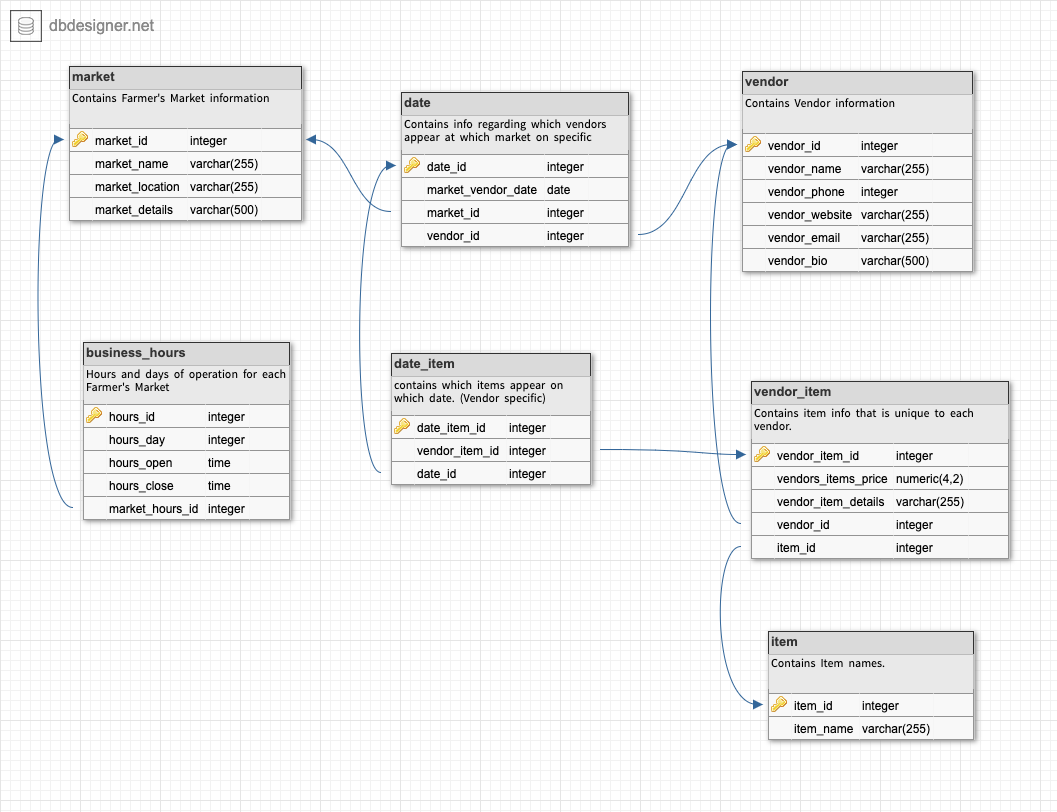
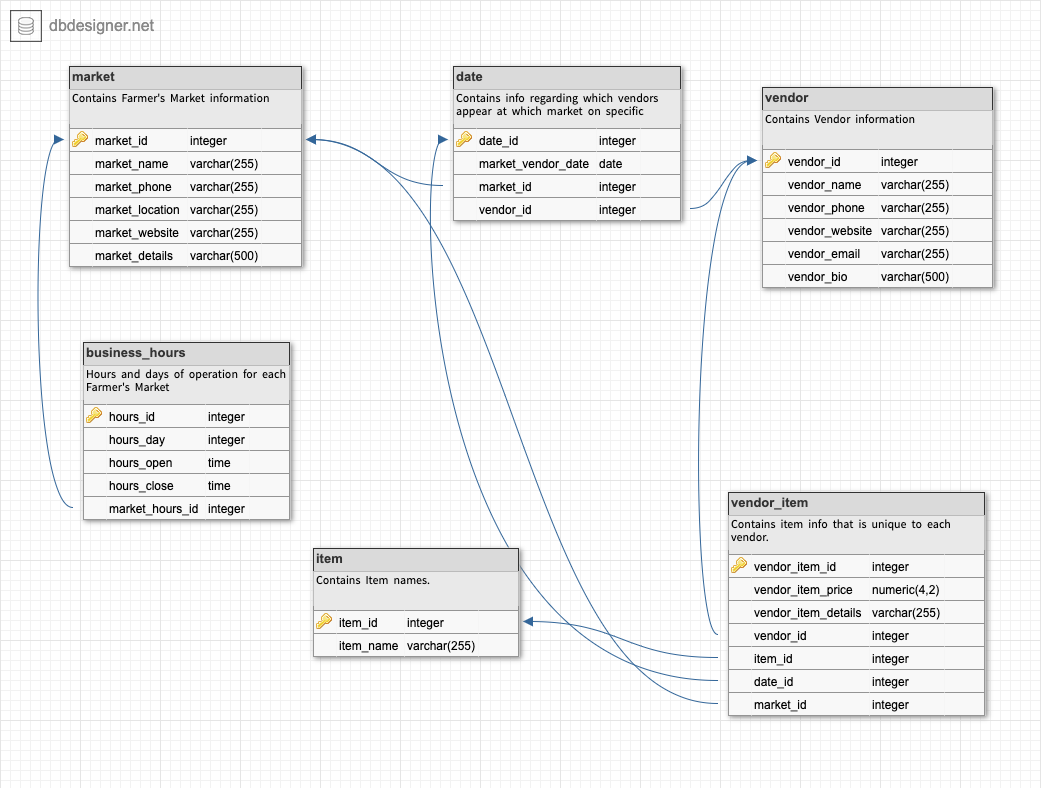
Updated sql script to have better join table flexibility. Added controllers to post vendor details, get vendor info, search for vendors/markets by date, search by item name.

diff --git a/server/controllers/aController.js b/server/controllers/aController.js
@@ -1,11 +1,176 @@
-const models = require('../models/aModel.js');
+const db = require('../models/aModel.js');
 const fs = require('fs');
 const path = require('path');
 const aController = {};
 
+/*
+  helpful query examples
 
-aController.findSomething = (req, res, next) => {
+  add column to table:
+  alter table vendor_item
+  add column "market_id" integer NOT NULL;
 
+  insert data into multiple columns at once
+  INSERT INTO business_hours (hours_day, hours_open, hours_close, market_hours_id)
+  VALUES (0, '09:00', '14:00', 7);
+
+  alter table vendor
+  alter column "vendor_phone" set data type varchar(255);
+
+  INSERT INTO vendor_item (vendor_item_price, vendor_item_details, vendor_id, item_id, date_id, market_id )
+ VALUES ('1.25', 'The dilliest dalliest pickles you ever did eat.', '1', '1', '1', '1');
+ 
+  INSERT INTO vendor (vendor_name, vendor_phone, vendor_website, vendor_email, vendor_bio)
+ VALUES ('Boris Farms', '(555) 555-5555', 'http://www.borisfarmfun.com', 'boris@borisfarmfun.com', 'Boris loves to farm!');
+
+ */
+ aController.createVendorDetails = (req, res, next) => {
+    // post vendor details
+
+     // for this to work the application will have to send these in the body of
+     //  the request as json object containing these keys.
+     const { vendor_name,
+     vendor_phone,
+     vendor_website,
+     vendor_email,
+     vendor_bio } = req.body; // or req.params depending how we build it
+
+     const values = [vendor_name,
+     vendor_phone,
+     vendor_website,
+     vendor_email,
+     vendor_bio];
+
+     const sqlQueryStr = `insert into vendor
+                           (vendor_name,
+                           vendor_phone,
+                           vendor_website,
+                           vendor_email,
+                           vendor_bio)
+                           values
+                           ($1, $2, $3, $4, $5)
+                           ;`
+                           ;
+
+     db.query(sqlQueryStr, values).then((data) => {
+       res.locals = data;
+       // console.log('data: ', res.locals.rows);
+       return next();
+     })
+       .catch((err) => next(err));
+ };
+
+aController.findVendorDetails = (req, res, next) => {
+    // get vendor info
+
+    // write code here
+    // console.log('req: ', req);
+    // console.log('req.query.id: ', req.query.id);
+    // const values = [req.query.id];
+
+    const { vendor_name } = req.body; // or req.params depending how we build it
+
+    const values = [vendor_name];
+    const sqlQueryStr = `select
+                          vendor_name,
+                          vendor_phone,
+                          vendor_website,
+                          vendor_email,
+                          vendor_bio,
+                          market_name
+
+                          from date d
+                          inner join market m
+                          on m.market_id = d.market_id
+                          inner join vendor v
+                          on v.vendor_id = d.vendor_id
+                          where vendor_name like $1
+                          order by
+                          market_name DESC
+                          ;`
+                          ;
+
+    db.query(sqlQueryStr, values).then((data) => {
+      res.locals = data;
+      // console.log('data: ', res.locals.rows);
+      return next();
+    })
+      .catch((err) => next(err));
+};
+
+aController.findVendorMarketDate = (req, res, next) => {
+    // search for vendors/markets by date
+
+    // write code here
+    // console.log('req: ', req);
+    // console.log('req.query.id: ', req.query.id);
+    // const values = [req.query.id];
+
+    const { market_vendor_date } = req.body; // or req.params depending how we build it
+
+    const values = [market_vendor_date];
+
+    const sqlQueryStr = `select
+                          vendor_name,
+                          market_vendor_date,
+                          market_name
+
+                          from date d
+                          inner join market m
+                          on m.market_id = d.market_id
+                          inner join vendor v
+                          on v.vendor_id = d.vendor_id
+                          where market_vendor_date like $1
+                          order by
+                          market_vendor_date ASC;`;
+
+    db.query(sqlQueryStr, values).then((data) => {
+      res.locals = data;
+      // console.log('data: ', res.locals.rows);
+      return next();
+    })
+      .catch((err) => next(err));
+};
+
+aController.findVendorItemDate = (req, res, next) => {
+    // search by item name
+
+    // write code here
+    // console.log('req: ', req);
+    // console.log('req.query.id: ', req.query.id);
+    // const values = [req.query.id];
+
+    const { item_name } = req.body; // or req.params depending how we build it
+
+    const values = [item_name];
+
+    const sqlQueryStr = `select
+                          vendor_name,
+                          market_vendor_date,
+                          market_name,
+                          item_name,
+                          vendor_item_price,
+                          vendor_item_details
+
+                          from vendor_item vi
+                          inner join date d
+                          on d.date_id = vi.date_id
+                          inner join vendor v
+                          on v.vendor_id = vi.vendor_id
+                          inner join item i
+                          on i.item_id = vi.item_id
+                          inner join market m
+                          on m.market_id = vi.market_id
+                          where item_name like $1
+                          order by
+                          market_vendor_date ASC;`;
+
+    db.query(sqlQueryStr, values).then((data) => {
+      res.locals = data;
+      // console.log('data: ', res.locals.rows);
+      return next();
+    })
+      .catch((err) => next(err));
 };
 
 //add controllers for DB works
